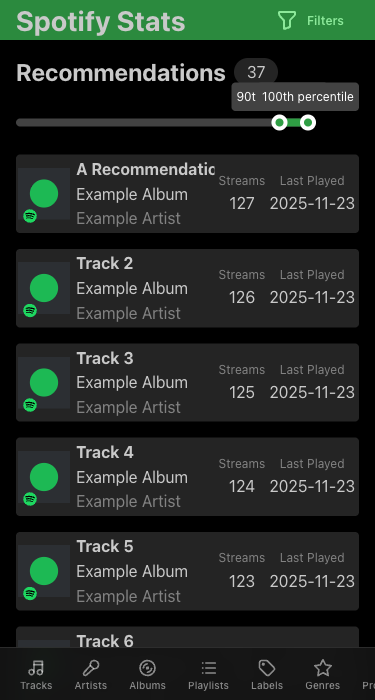
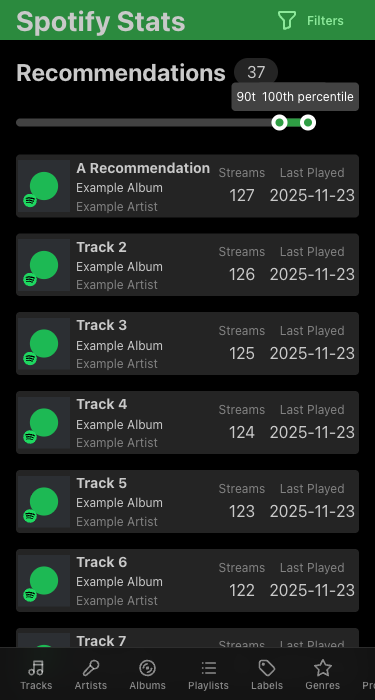
Apply mobile row text sizing
Copilot-Session: 15095951-b356-4c12-ae8e-066308e09f93

diff --git a/client/src/design/RowDesign.module.css b/client/src/design/RowDesign.module.css
@@ -82,11 +82,13 @@
     min-width: 0;
   }
 
-  .rowText {
+  .rowText,
+  .rowText :global(.mantine-Text-root) {
     font-size: var(--mantine-font-size-xs);
   }
 
-  .rowTextPrimary {
+  .rowTextPrimary,
+  .rowTextPrimary :global(.mantine-Text-root) {
     font-size: var(--mantine-font-size-sm);
   }
 
